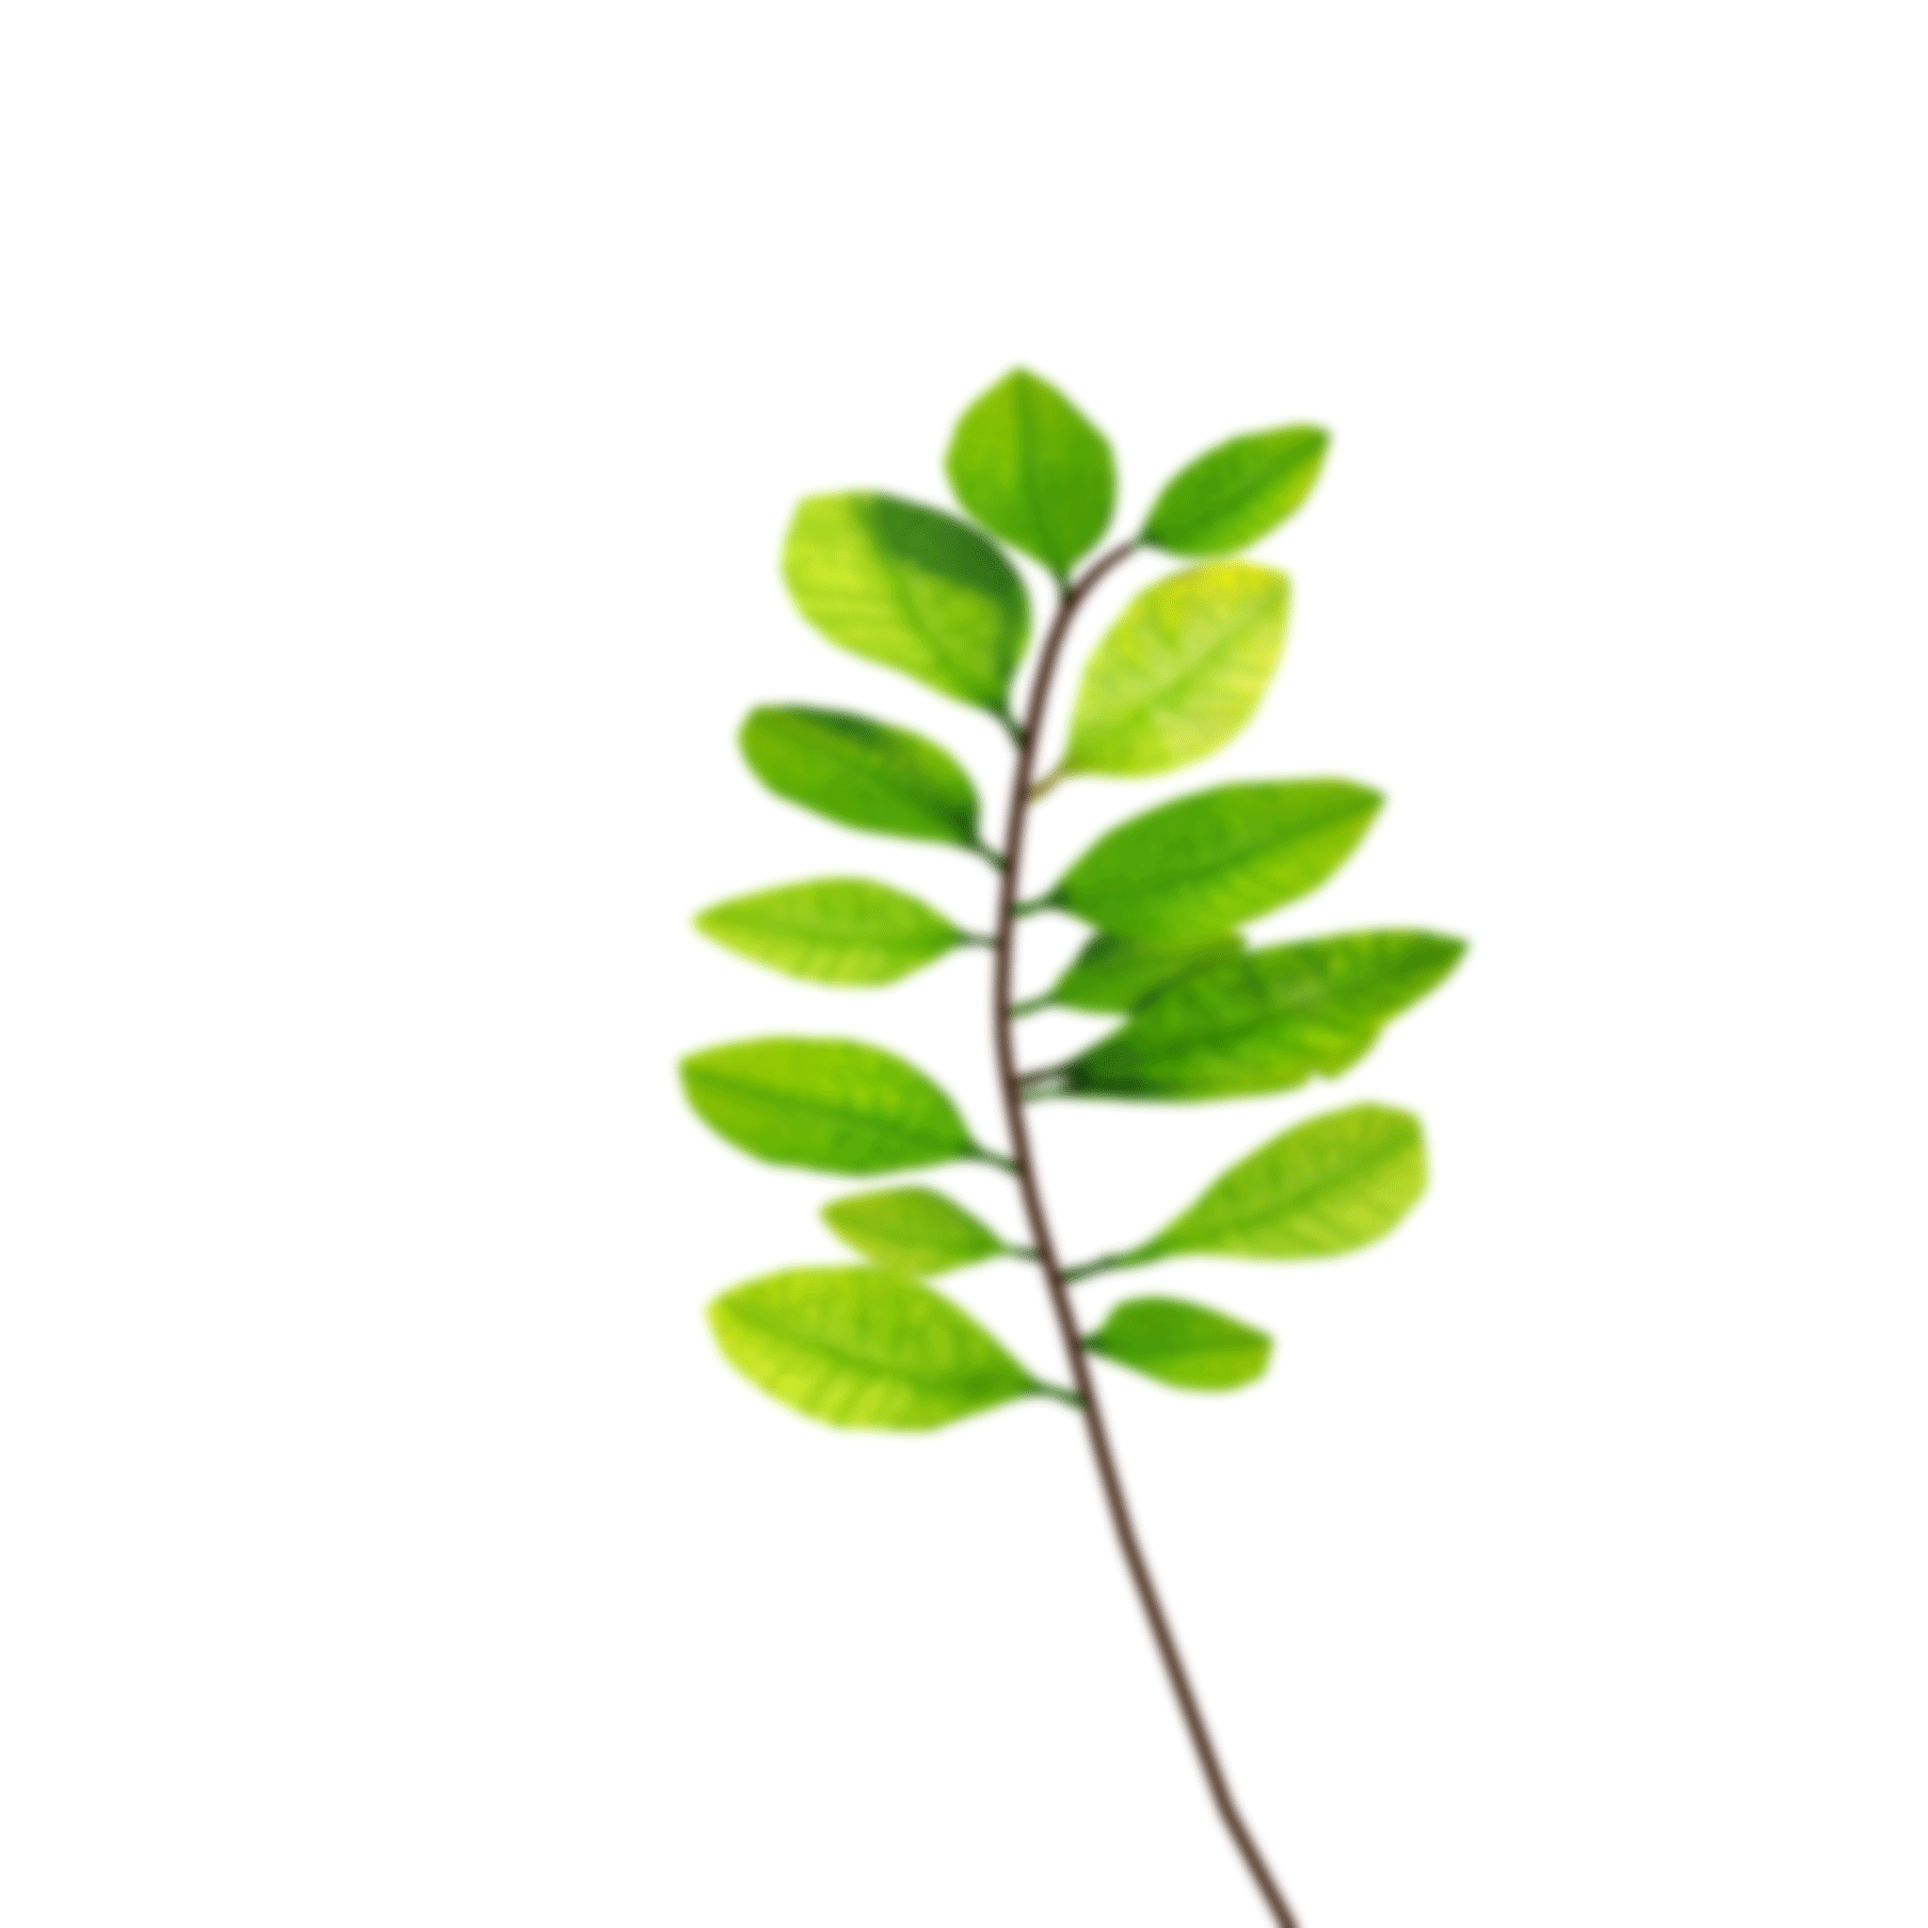
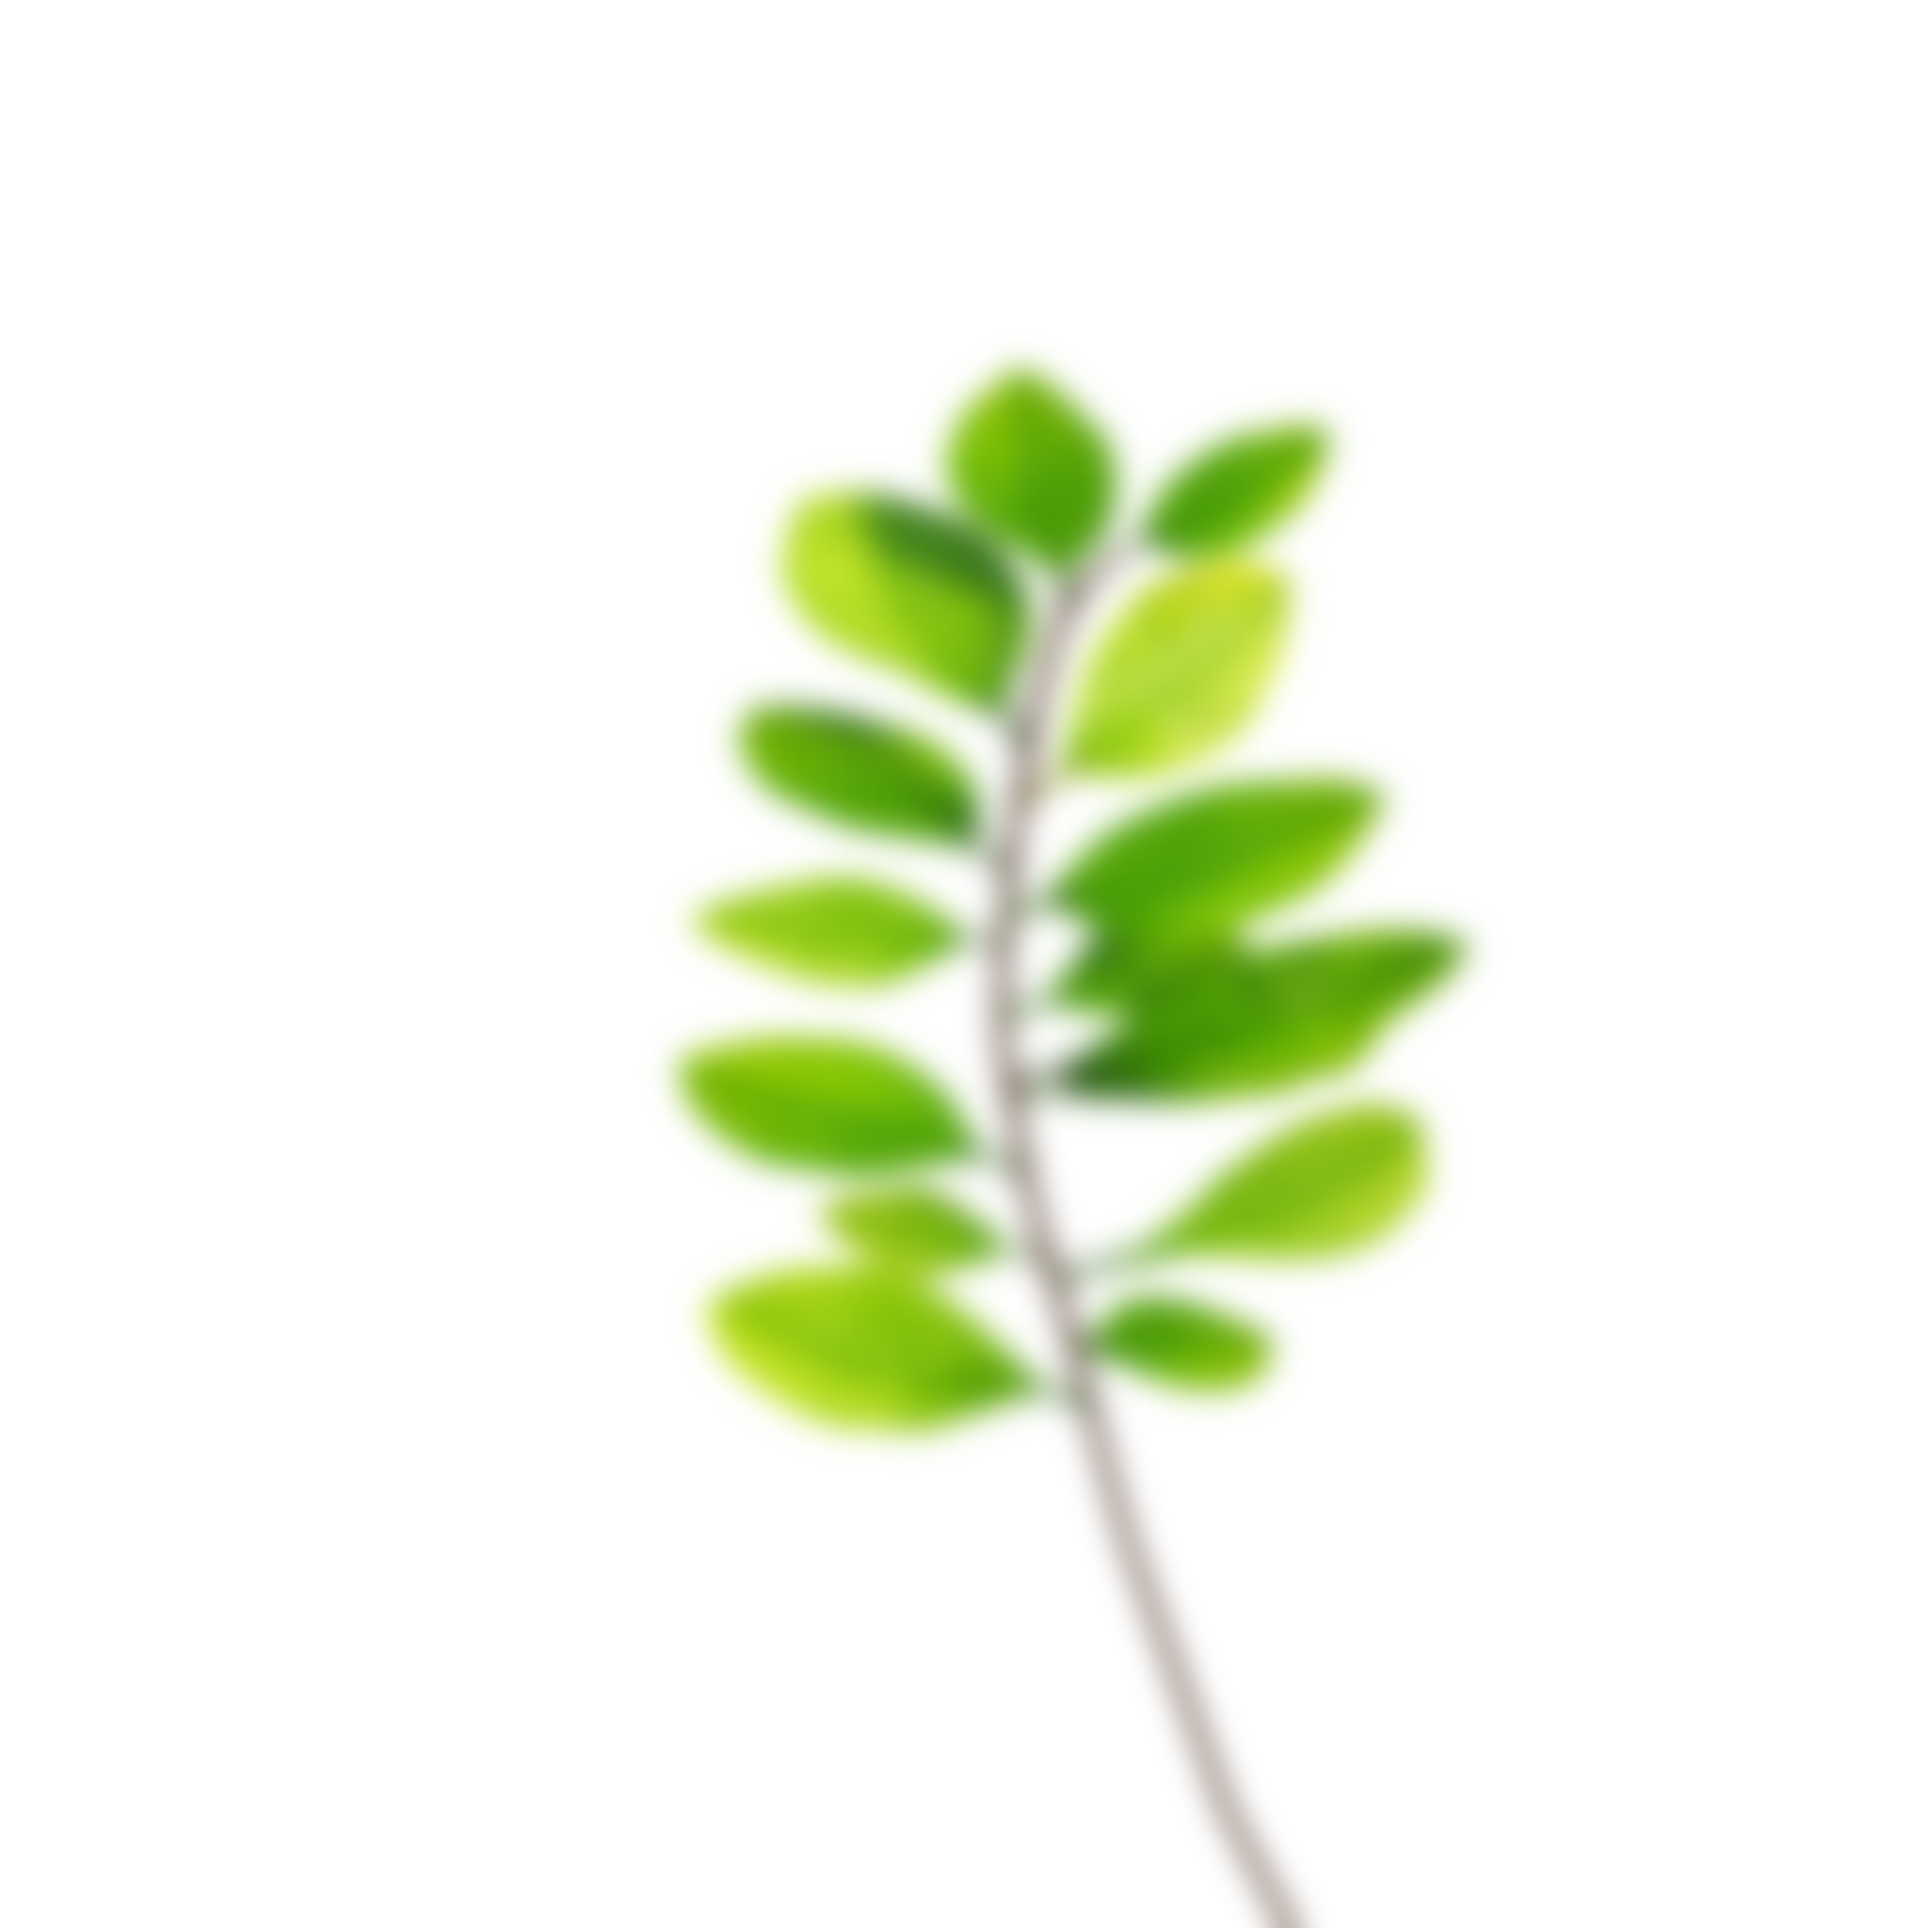
add back leafs in step 1

Changed region(s): [[0.3438, 0.1875, 0.7812, 1.0]]

diff --git a/src/webgl/steps/chapter1/Step1/index.js b/src/webgl/steps/chapter1/Step1/index.js
@@ -8,7 +8,7 @@ import { c } from "../../../../helpers/Configuration";
 import { InteractivePlane } from "../../../components";
 import AbilitiesManager from "~/services/AbilitiesManager";
 import ModelAnimationManager from "../../../manager/ModelAnimation";
-import Viewport from "../../../../helpers/Viewport";
+import LeafBack from "../components/LeafBack";
 
 /**
  * @constructor
@@ -51,6 +51,23 @@ export default class extends Step {
     this.background.object3D.name = "background";
     this.background.object3D.position.z = -120;
 
+    // Generate background leafs
+    this.leafBacks = [];
+    this.leafBackGroup = new THREE.Group();
+    this.leafBacksConfig = config.leafBacks;
+    this.leafBacksConfig.forEach((config, i) => {
+      var leafBack = new LeafBack({
+        name: 'leaf_back_' + i,
+        texture: ressources.step_1_bg_leaf.result,
+        position: config.position,
+        rotation: config.rotation,
+        scale: config.scale,
+        color: config.color
+      })  
+      this.leafBacks.push(leafBack);
+      this.leafBackGroup.add(leafBack.object3D);
+    });
+
     this.leaf = ressources.step_1_human_leaf.result;
     this.leafScene = this.leaf.scene;
     this.leafSceneMaterial = this.leaf.scene.children[0].children[0].children[0].children[0].material
@@ -58,21 +75,7 @@ export default class extends Step {
     var mainTransformConfig = config.transforms.find(transform => transform.asset === this.leafScene.name);
     this.leafScene.position.copy(mainTransformConfig.position);
     this.leafScene.rotation.copy(mainTransformConfig.rotation);
-    this.scene.humanScale.group.add(this.leafScene);
-    this.background.object3D.position.z = -100;
-    // this.background.object3D.position.y = -10;
-  
-    //Leaf reveal 
-    // AnimationManager.addAnimation(new Animation({
-    //   duration: 3000,
-    //   timingFunction: "easeOutQuad",
-    //   delay: 4000,
-    //   from: mainTransformConfig.position.y,
-    //   to: -1.18
-    // }).on("progress", (event) => {
-      // leafScene.position.y = event.value;
-      // this.background.object3D.position.y = -10 * (1 - event.advancement);
-    // }));
+    
 
     // Idle Animation
     var modelAnimLeaf = ModelAnimationManager.generateClips(this.leaf, config.modelAnimation.clips, config.modelAnimation.options);
@@ -83,8 +86,11 @@ export default class extends Step {
 
     this.initGUI();
  
-    // Add background
+    // Add Objects to scene
     this.scene.humanScale.group.add(this.background.object3D);
+    this.scene.humanScale.group.add(this.leafScene);
+    this.scene.humanScale.group.add(this.leafBackGroup);
+
     AbilitiesManager.can("all", true);
   }
 
@@ -104,6 +110,14 @@ export default class extends Step {
       this.folder.background.addVector("offset back", this.background.object3D.material.uniforms.u_offset_back.value);
     }
 
+    if(!this.folder.leafBacks ){
+      this.folder.leafBacks = this.gui.addFolder("Leaf Backs");
+      this.leafBacks.forEach(leafBack => {
+        var leafBackFolder = this.folder.leafBacks.addFolder(leafBack.name);  
+        leafBackFolder.addObject3D("Mesh",  leafBack.object3D, false);
+      })
+    }
+
   }
 
   hide( newStep ) {
@@ -115,6 +129,11 @@ export default class extends Step {
 
     if ( toRemove.includes("background") ){
       this.scene.humanScale.group.remove(this.background.object3D);
+    }
+
+
+    if ( toRemove.includes("leafbacks") ){
+      this.scene.humanScale.group.add(this.leafBackGroup);
     }
     
     super.hide(newStep);

diff --git a/src/webgl/steps/chapter1/components/LeafBack.js b/src/webgl/steps/chapter1/components/LeafBack.js
@@ -1,0 +1,40 @@
+class LeafBack {
+  
+  constructor({
+    name = null,
+    texture = null, 
+    position = new THREE.Vector3(),
+    rotation = new THREE.Euler(),
+    scale = new THREE.Vector3(),
+    color = new THREE.Color(),
+    size = 1,
+    distance = 0
+  } = {}){
+    if( !texture ) return; 
+    this.name = name;
+    this.texture = texture;
+    this.position = position;
+    this.rotation = rotation;
+    this.scale = scale;
+    this.color = color;
+    var aspect = this.texture.image.width/this.texture.image.height;
+
+    var geometry = new THREE.PlaneGeometry(size, size/aspect);
+  
+    this.object3D = new THREE.Mesh(geometry, new THREE.MeshBasicMaterial({
+      map: this.texture,
+      transparent: true, 
+      opacity: 0.99,
+      alphaTest: 0.05,
+      color: this.color,
+      side: THREE.DoubleSide
+    }));
+    this.object3D.name = this.name
+    this.object3D.position.copy(this.position);
+    this.object3D.rotation.copy(this.rotation);
+    this.object3D.scale.copy(this.scale);
+  }
+
+}
+
+export default LeafBack;

diff --git a/src/webgl/steps/chapter1/Step1/config.js b/src/webgl/steps/chapter1/Step1/config.js
@@ -39,6 +39,26 @@ export default baseConfig.extends({
       spriteName: 'step_1'
     }
   ],
+  leafBacks: [
+    {
+      position: new THREE.Vector3(-26, 0, -18),
+      rotation: new THREE.Euler(-0.12, 0.12, -1),
+      scale: new THREE.Vector3(26, 26, 26),
+      color: new THREE.Color("rgb(187, 187, 187)")
+    },
+    {
+      position: new THREE.Vector3(-39, -11.5, -27),
+      rotation: new THREE.Euler(3, -1.2, -1.74),
+      scale: new THREE.Vector3(30, 30, 30),
+      color: new THREE.Color("rgb(170, 170, 170)")
+    },
+    {
+      position: new THREE.Vector3(7.16, 1.66, 4),
+      rotation: new THREE.Euler(0, -0.18, 2),
+      scale: new THREE.Vector3(13, 13, 13),
+      color: new THREE.Color("rgb(220, 220, 220)")
+    }
+  ],
 
   micro: {
     colorPlane: colorPlane.extends({

diff --git a/src/webgl/steps/chapter1/index.js b/src/webgl/steps/chapter1/index.js
@@ -54,6 +54,8 @@ export const init = (ressources, main) => {
   main.renderer.renderer.setTexture2D(ressources.normalLeaf.result);
   main.renderer.renderer.setTexture2D(ressources.roughnessLeaf.result);
 
+  main.renderer.renderer.setTexture2D(ressources.step_1_bg_leaf.result);
+
   main.renderer.renderer.render(main.threeScene, main.camera);
 
   main.threeScene.remove(ressources.step_4_pasta.result.scene);
